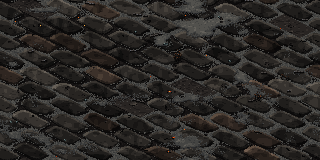
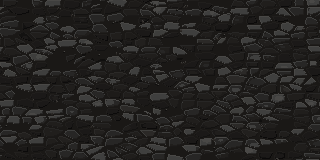
Terrain: the moor, heath and ridge roads and flagstones redrawn (tools/terrain/paint_ground.py): worn cobbles and irregular slabs, each stone its own shade, lit on its upper-left rim, mud and weeds in the joints, cracks and stains, in the land's own stone colours; the browser's grass, dirt, mud, the
Claude-Session: https://claude.ai/code/session_018Pk8XmLYtxZunBHcmqkPL7

diff --git a/tools/terrain/paint_ground.py b/tools/terrain/paint_ground.py
@@ -1,0 +1,350 @@
+"""Repaint the zones' ground textures by hand-written rules (assets/ground/set0/<land>/<class>_<n>.webp).
+
+Each texture is 320x160 texels, seamless, seen as the screen sees it: the ground shader (shaders/ground_iso.gdshader)
+lays it in screen space at 2 texels per world px, so one 36x18 tile is 72x36 texels and anything lying on the ground
+(a cobble, a slab, a puddle) is drawn squashed 2:1. Light comes from the upper left, as everywhere in the game.
+
+Each land keeps its colours: the palette of every texture is taken from the texture it replaces (its tones, darkest to
+lightest), and only the drawing is new:
+  road     worn cobbles of uneven size, rounded, lit on their upper-left edge, with mud and the odd weed in the joints,
+           some stones sunk or gone;
+  flags    large irregular slabs with cracks, chipped corners and moss or grime in the seams;
+  crypt, barrow, bone   the deep floors: slabs, packed earth with bones, or set bone, by the class;
+  main     the land's ground (ash and dead grass on the moor, leaf-litter in the wood, sedge on the fen, burnt heather):
+           mottled in broad patches, tufts that lean, pebbles, the odd bone chip;
+  dirt     trodden earth: ruts, pocks and pebbles;
+  mud      wet earth darker in the hollows, with still puddles that hold a pale sheen.
+Water, shallows, bog and arena are left alone (the shader moves the water).
+
+  tools/pixelforge/.venv/Scripts/python tools/terrain/paint_ground.py [--lands moor,wood] [--preview OUT.png] [--apply]
+The textures as they were are kept in tools/terrain/original/ (the first --apply copies them; every run paints from
+the originals' palettes, so it never stacks).
+"""
+import argparse, os, shutil
+import numpy as np
+from PIL import Image
+
+ROOT = os.path.abspath(os.path.join(os.path.dirname(__file__), '..', '..'))
+SET = os.path.join(ROOT, 'assets', 'ground', 'set0')
+KEEP = os.path.join(os.path.dirname(os.path.abspath(__file__)), 'original')
+W, H = 320, 160
+ACT1 = ['moor', 'heath', 'ridge']   # the lands whose roads were rows of neat bricks; the wood's and the fen's mossy stones are kept   # the dungeon floors (crypt, barrow, bone) keep the browser's: laid on the tile grid, as built rooms are
+PAINT = {'road', 'flags'}   # dirt and mud keep the browser's (its litter of leaves, twigs and grass beat the redraw)   # 'main' (grass, ash, litter) kept: the browser's is good
+
+
+# ------------------------------------------------------------------ noise and helpers (all periodic, so it tiles)
+def vnoise(scale_x, scale_y, seed):
+    """value noise with periods that divide the texture, smooth-stepped"""
+    r = np.random.default_rng(seed)
+    gx, gy = max(1, W // max(1, scale_x)), max(1, H // max(1, scale_y))
+    g = r.random((gy, gx))
+    xs = np.arange(W) / W * gx; ys = np.arange(H) / H * gy
+    x0 = np.floor(xs).astype(int); y0 = np.floor(ys).astype(int)
+    fx = xs - x0; fy = ys - y0
+    fx = fx * fx * (3 - 2 * fx); fy = fy * fy * (3 - 2 * fy)
+    x1 = (x0 + 1) % gx; y1 = (y0 + 1) % gy
+    a = g[np.ix_(y0 % gy, x0 % gx)]; b = g[np.ix_(y0 % gy, x1)]; c = g[np.ix_(y1, x0 % gx)]; d = g[np.ix_(y1, x1)]
+    fx = fx[None, :]; fy = fy[:, None]
+    return (a * (1 - fx) + b * fx) * (1 - fy) + (c * (1 - fx) + d * fx) * fy
+
+
+def fbm(seed, base=40):
+    return 0.55 * vnoise(base, base // 2, seed) + 0.3 * vnoise(base // 2, base // 4, seed + 1) + 0.15 * vnoise(base // 5, base // 10, seed + 2)
+
+
+BAY = np.array([[0, 8, 2, 10], [12, 4, 14, 6], [3, 11, 1, 9], [15, 7, 13, 5]]) / 16.0
+BAYT = np.tile(BAY, (H // 4, W // 4))
+
+
+def quant(v, n):
+    """a 0..1 field to n tone steps, dithered at the step edges (pixel art, not a smooth ramp)"""
+    return np.clip(np.floor(v * n + (BAYT - 0.5) * 0.6), 0, n - 1).astype(int)
+
+
+def palette_of(path, n=7, family=None):
+    """the tones of a texture, darkest to lightest: the mean colour of each luminance band (so the hue moves smoothly
+    along the ramp and never flips between families). family: 'stone' takes only the greyer half of the pixels, 'green'
+    the more saturated half, None all of them."""
+    a = np.asarray(Image.open(path).convert('RGB')).reshape(-1, 3).astype(float)
+    mx, mn = a.max(1), a.min(1)
+    sat = (mx - mn) / np.maximum(mx, 1)
+    if family == 'stone':
+        a = a[sat <= np.median(sat)]
+    elif family == 'green':
+        a = a[sat >= np.percentile(sat, 60)]
+    lum = a @ [0.299, 0.587, 0.114]
+    qs = np.percentile(lum, np.linspace(3, 99, n + 1))
+    out = []
+    for i in range(n):
+        m = (lum >= qs[i]) & (lum <= qs[i + 1])
+        out.append(a[m].mean(0) if m.any() else a.mean(0))
+    return np.array(out)
+
+
+def ramp_at(pal, t):
+    """a colour at 0..1 along the palette (by index, no blending: pixel art)"""
+    i = np.clip(np.round(np.asarray(t, float) * (len(pal) - 1)).astype(int), 0, len(pal) - 1)
+    return pal[i]
+
+
+def cells(seed, mean_w, jitter=0.45, squash=2.0):
+    """Voronoi cells on a seamless jittered grid, in screen space squashed 2:1 (a stone lying on the ground).
+    Returns (id, d1, d2): the nearest cell per texel, its distance and the second distance (d2-d1 = the joint)."""
+    r = np.random.default_rng(seed)
+    nx = max(2, round(W / mean_w)); ny = max(2, round(H / (mean_w / squash)))
+    cw, ch = W / nx, H / ny
+    pts = []
+    for j in range(ny):
+        for i in range(nx):
+            pts.append(((i + 0.5 + (r.random() - 0.5) * 2 * jitter) * cw, (j + 0.5 + (r.random() - 0.5) * 2 * jitter) * ch))
+    pts = np.array(pts)
+    yy, xx = np.mgrid[0:H, 0:W]
+    d1 = np.full((H, W), 1e9); d2 = np.full((H, W), 1e9); idx = np.zeros((H, W), int)
+    for k, (px, py) in enumerate(pts):
+        for ox in (-W, 0, W):
+            for oy in (-H, 0, H):
+                dx = xx - (px + ox); dy = (yy - (py + oy)) * squash
+                d = np.sqrt(dx * dx + dy * dy)
+                closer = d < d1
+                d2 = np.where(closer, d1, np.minimum(d2, d))
+                idx = np.where(closer, k, idx); d1 = np.where(closer, d, d1)
+    return idx, d1, d2, len(pts)
+
+
+def bevel(idx, inner):
+    """1 on a stone's upper-left rim (lit), -1 on its lower-right rim (shadow), 0 inside"""
+    up = np.roll(idx, 1, 0) != idx; left = np.roll(idx, 1, 1) != idx
+    down = np.roll(idx, -1, 0) != idx; right = np.roll(idx, -1, 1) != idx
+    b = np.zeros(idx.shape)
+    b[(up | left) & inner] = 1
+    b[(down | right) & inner & ~(up | left)] = -1
+    return b
+
+
+def scatter(img, pal, seed, n, size=(1, 2), tone=(0.75, 1.0), mask=None):
+    """pebbles: a few texels each, a lit pixel on top and a shadow under"""
+    r = np.random.default_rng(seed)
+    for _ in range(n):
+        x, y = r.integers(0, W), r.integers(0, H)
+        if mask is not None and not mask[y, x]:
+            continue
+        s = r.integers(size[0], size[1] + 1)
+        c = ramp_at(pal, r.uniform(*tone))
+        for dy in range(s):
+            for dx in range(s * 2):
+                img[(y + dy) % H, (x + dx) % W] = c
+        img[y % H, (x + s) % W] = ramp_at(pal, 1.0)
+        for dx in range(s * 2):
+            img[(y + s) % H, (x + dx) % W] = pal[0]
+
+
+def tufts(img, pal, seed, n, lean=1, tall=(3, 6), tone=(0.55, 1.0), mask=None):
+    """grass and sedge: two or three blades from a root, leaning the same way, dark at the root, light at the tip"""
+    r = np.random.default_rng(seed)
+    for _ in range(n):
+        x, y = int(r.integers(0, W)), int(r.integers(0, H))
+        if mask is not None and not mask[y, x]:
+            continue
+        for b in range(int(r.integers(2, 4))):
+            h = int(r.integers(*tall)); dx0 = int(r.integers(-2, 3)); sl = lean * r.uniform(0.2, 0.7) + (b - 1) * 0.35
+            for k in range(h):
+                t = k / max(1, h - 1)
+                c = ramp_at(pal, tone[0] + (tone[1] - tone[0]) * t)
+                img[(y - k) % H, int(round(x + dx0 + sl * k)) % W] = c
+
+
+def cracks(img, pal, seed, n, length=(8, 24), mask=None):
+    r = np.random.default_rng(seed)
+    for _ in range(n):
+        x, y = float(r.integers(0, W)), float(r.integers(0, H))
+        if mask is not None and not mask[int(y), int(x)]:
+            continue
+        ang = r.uniform(0, np.pi)
+        for k in range(int(r.integers(*length))):
+            ang += r.uniform(-0.6, 0.6)
+            x += np.cos(ang); y += np.sin(ang) * 0.5
+            xi, yi = int(x) % W, int(y) % H
+            if mask is not None and not mask[yi, xi]:
+                break
+            img[yi, xi] = pal[0]
+            img[(yi + 1) % H, xi] = ramp_at(pal, 0.15) if k % 2 else img[(yi + 1) % H, xi]
+
+
+# ------------------------------------------------------------------ the classes
+def paint_road(pal, seed, land, earth=None):
+    earth = pal if earth is None else earth
+    """cobbles: uneven, rounded, lit upper-left; mud in the joints, weeds, some stones sunk or gone"""
+    idx, d1, d2, n = cells(seed, 15, jitter=0.42)
+    r = np.random.default_rng(seed + 9)
+    joint = (d2 - d1) < 2.4
+    tone = r.uniform(0.22, 0.9, n)[idx]                       # each stone its own shade
+    gone = r.random(n) < 0.06                                 # a few stones lost: earth there
+    shape = np.clip(1 - d1 / 16.0, 0, 1)                      # a stone is rounded: lighter toward its middle
+    v = tone + 0.12 * (shape - 0.5) + 0.07 * (fbm(seed + 3, 24) - 0.5)
+    inner = ~joint
+    b = bevel(np.where(joint, -1, idx), inner)
+    v = v + 0.2 * b
+    img = ramp_at(pal, np.clip(v, 0, 1))
+    stained = (r.random(n) < 0.12)[idx] & ~joint             # a few stones stained with earth or moss
+    img[stained] = ((img * 0.55 + ramp_at(earth, np.clip(v, 0, 1)) * 0.45))[stained]
+    mud = joint | gone[idx]
+    mudv = 0.05 + 0.2 * fbm(seed + 5, 20)
+    img[mud] = ramp_at(earth, mudv)[mud]
+    scatter(img, earth, seed + 11, 60, size=(1, 1), tone=(0.3, 0.55), mask=mud)
+    if land in ('moor', 'wood', 'fen', 'heath', 'ridge'):
+        tufts(img, earth, seed + 13, 90, tall=(2, 4), tone=(0.45, 0.85), mask=joint)
+    return img
+
+
+def paint_slabs(pal, seed, mean_w=42, moss=0.0, earth=None):
+    earth = pal if earth is None else earth
+    """large irregular slabs: worn faces, cracks, chipped corners, grime in the seams"""
+    idx, d1, d2, n = cells(seed, mean_w, jitter=0.35)
+    r = np.random.default_rng(seed + 9)
+    seam = (d2 - d1) < 2.0
+    tone = r.uniform(0.25, 0.85, n)[idx]
+    wear = fbm(seed + 3, 30)
+    v = tone + 0.18 * (wear - 0.5) + 0.06 * (fbm(seed + 4, 8) - 0.5)
+    b = bevel(np.where(seam, -1, idx), ~seam)
+    v = v + 0.13 * b
+    img = ramp_at(pal, np.clip(v, 0, 1))
+    img[seam] = ramp_at(earth, 0.04 + 0.14 * wear)[seam]
+    cracks(img, pal, seed + 6, 22, mask=~seam)
+    scatter(img, pal, seed + 7, 30, size=(1, 1), tone=(0.15, 0.3), mask=~seam)
+    if moss > 0:
+        m = (fbm(seed + 8, 20) > 1 - moss) & ((d2 - d1) < 6)
+        img[m] = ramp_at(earth, 0.45 + 0.3 * fbm(seed + 9, 6))[m]
+    return img
+
+
+def paint_ground(pal, seed, land, variant):
+    """the land's own ground: broad mottled patches, leaning tufts, pebbles, the odd bone chip"""
+    base = fbm(seed, 60)
+    detail = vnoise(6, 3, seed + 2)
+    t = quant(0.15 + 0.6 * base + 0.25 * detail, 5) / 4.0
+    v = 0.12 + 0.55 * t
+    img = ramp_at(pal, v)
+    lean = 1 if variant == 0 else -1
+    dense = {'moor': 260, 'heath': 180, 'ridge': 200, 'wood': 120, 'fen': 360}.get(land, 200)
+    tufts(img, pal, seed + 5, dense, lean=lean, tall=(3, 7) if land == 'fen' else (2, 6), tone=(0.4, 1.0))
+    scatter(img, pal, seed + 7, 60, size=(1, 2), tone=(0.5, 0.8))
+    if land in ('moor', 'heath', 'ridge'):
+        # bone chips and ash: pale flecks, a crack or two in the baked crust
+        scatter(img, pal, seed + 8, 14, size=(1, 1), tone=(0.95, 1.0))
+        cracks(img, pal, seed + 9, 6, length=(5, 12))
+    if land == 'wood':
+        # fallen leaves in drifts, a twig here and there
+        leaf = fbm(seed + 10, 30) > 0.58
+        r = np.random.default_rng(seed + 11)
+        for _ in range(500):
+            x, y = r.integers(0, W), r.integers(0, H)
+            if leaf[y, x]:
+                img[y, x] = ramp_at(pal, r.uniform(0.6, 0.95)); img[y, (x + 1) % W] = ramp_at(pal, r.uniform(0.5, 0.8))
+    return img
+
+
+def paint_dirt(pal, seed):
+    """trodden earth: ruts running across, pocks, pebbles"""
+    v = 0.05 + 0.9 * fbm(seed, 50) + 0.25 * (vnoise(8, 4, seed + 1) - 0.5)
+    v = quant(np.clip(v, 0, 1), 7) / 6.0
+    ruts = np.abs(np.sin((np.arange(H)[:, None] * 2.0 + np.arange(W)[None, :] * 0.25 + 30 * fbm(seed + 2, 80)) * 2 * np.pi / 40))
+    v = v - 0.12 * (ruts < 0.12)
+    img = ramp_at(pal, np.clip(v, 0, 1))
+    r = np.random.default_rng(seed + 3)
+    for _ in range(90):                                       # pocks: a dark dent with a lit lower lip
+        x, y = r.integers(0, W), r.integers(0, H)
+        img[y, x] = pal[0]; img[y, (x + 1) % W] = pal[0]; img[(y + 1) % H, x] = ramp_at(pal, 0.7)
+    scatter(img, pal, seed + 4, 140, size=(1, 2), tone=(0.6, 0.95))
+    cracks(img, pal, seed + 5, 10, length=(6, 14))
+    return img
+
+
+def paint_mud(pal, seed):
+    """wet earth, darker in the hollows; still puddles that catch a pale sheen at their far edge"""
+    f = fbm(seed, 50)
+    v = quant(np.clip(0.0 + 1.0 * f, 0, 1), 6) / 5.0 * 0.8 + 0.05
+    img = ramp_at(pal, np.clip(v, 0, 1))
+    pool = f < 0.36
+    img[pool] = ramp_at(pal, 0.05 + 0.1 * vnoise(10, 5, seed + 2))[pool]
+    edge = pool & ~np.roll(pool, 1, 0)                         # the far (upper) rim of each puddle catches the sky
+    img[edge] = ramp_at(pal, 0.8)
+    rim = pool & ~np.roll(pool, -1, 0)
+    img[rim] = ramp_at(pal, 0.25)
+    scatter(img, pal, seed + 3, 40, size=(1, 1), tone=(0.4, 0.6), mask=~pool)
+    return img
+
+
+def paint_deep(cls, pal, seed):
+    if cls == 'crypt':
+        return paint_slabs(pal, seed, mean_w=40)
+    if cls == 'barrow':                                         # packed earth with stones and bones sunk in it
+        img = paint_dirt(pal, seed)
+        scatter(img, pal, seed + 20, 30, size=(1, 2), tone=(0.85, 1.0))
+        return img
+    if cls == 'bone':                                           # set bone: small pale tiles, worn, in dark grout
+        return paint_slabs(pal, seed, mean_w=16)
+    return None
+
+
+def paint(land, cls, n, pal, earth):
+    seed = (hash(land) % 10000) * 10 + n * 7 + len(cls)
+    seed = abs(seed) % (2 ** 31)
+    if cls == 'road':
+        return paint_road(pal, seed, land, earth)
+    if cls == 'flags':
+        return paint_slabs(pal, seed, mean_w=44, moss=0.25 if land in ('wood', 'fen') else 0.0, earth=earth)
+    if cls == 'main':
+        return paint_ground(pal, seed, land, n)
+    if cls == 'dirt':
+        return paint_dirt(pal, seed)
+    if cls == 'mud':
+        return paint_mud(pal, seed)
+    return paint_deep(cls, pal, seed)
+
+
+def files(lands):
+    for land in lands:
+        d = os.path.join(SET, land)
+        for f in sorted(os.listdir(d)):
+            if not f.endswith('.webp'):
+                continue
+            cls, n = f[:-5].rsplit('_', 1)
+            if cls in PAINT:
+                yield land, cls, int(n), f
+
+
+if __name__ == '__main__':
+    ap = argparse.ArgumentParser()
+    ap.add_argument('--lands', default=','.join(ACT1)); ap.add_argument('--preview'); ap.add_argument('--apply', action='store_true')
+    A = ap.parse_args()
+    # crc32 instead of hash(): hash() of a str changes between runs
+    import zlib
+    hash = lambda s: zlib.crc32(s.encode())  # noqa: E731
+    lands = A.lands.split(',')
+    out = []
+    for land, cls, n, f in files(lands):
+        src = os.path.join(KEEP, land, f) if os.path.exists(os.path.join(KEEP, land, f)) else os.path.join(SET, land, f)
+        fam = 'stone' if cls in ('road', 'flags', 'crypt', 'bone') else None
+        pal = palette_of(src, family=fam)
+        earth = palette_of(src)
+        img = paint(land, cls, n, pal, earth)
+        if img is None:
+            continue
+        new = Image.fromarray(np.clip(img, 0, 255).astype(np.uint8), 'RGB')
+        out.append((land, cls, n, Image.open(src).convert('RGB'), new))
+        if A.apply:
+            os.makedirs(os.path.join(KEEP, land), exist_ok=True)
+            if not os.path.exists(os.path.join(KEEP, land, f)):
+                shutil.copy(os.path.join(SET, land, f), os.path.join(KEEP, land, f))
+            new.save(os.path.join(SET, land, f), lossless=True)
+    if A.preview:
+        rows = len(out)
+        o = Image.new('RGB', (W * 4 + 10, rows * (H + 6)), (20, 18, 24))
+        for i, (land, cls, n, old, new) in enumerate(out):
+            y = i * (H + 6)
+            o.paste(old, (0, y)); o.paste(new, (W + 10, y))
+            # 2x of the new one's middle, as the game shows it
+            o.paste(new.crop((80, 40, 240, 120)).resize((W, H), Image.NEAREST), (2 * W + 10, y))
+            o.paste(new.crop((0, 0, 160, 80)).resize((W - 10, H), Image.NEAREST), (3 * W + 10, y))
+        o.save(A.preview)
+    print(len(out), 'textures', 'written' if A.apply else '(preview only)')
